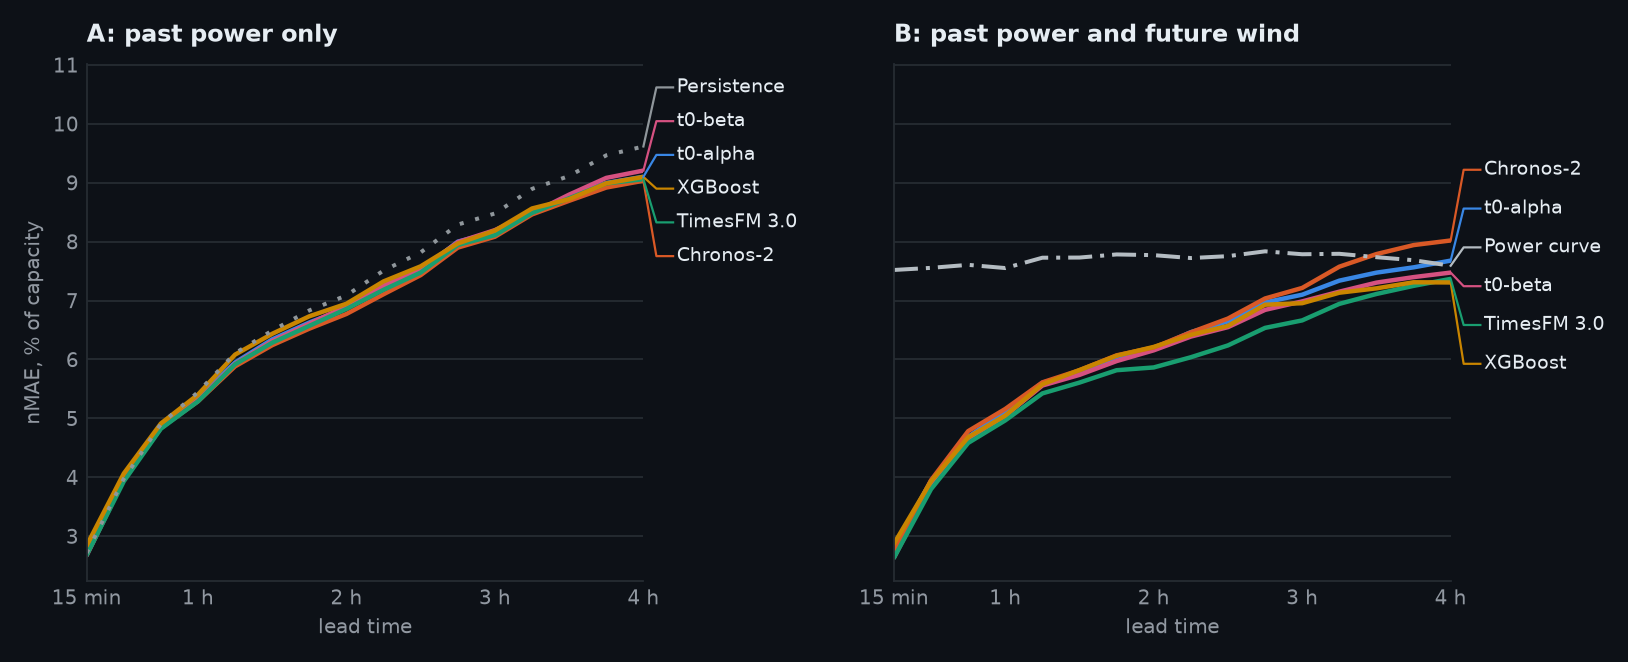
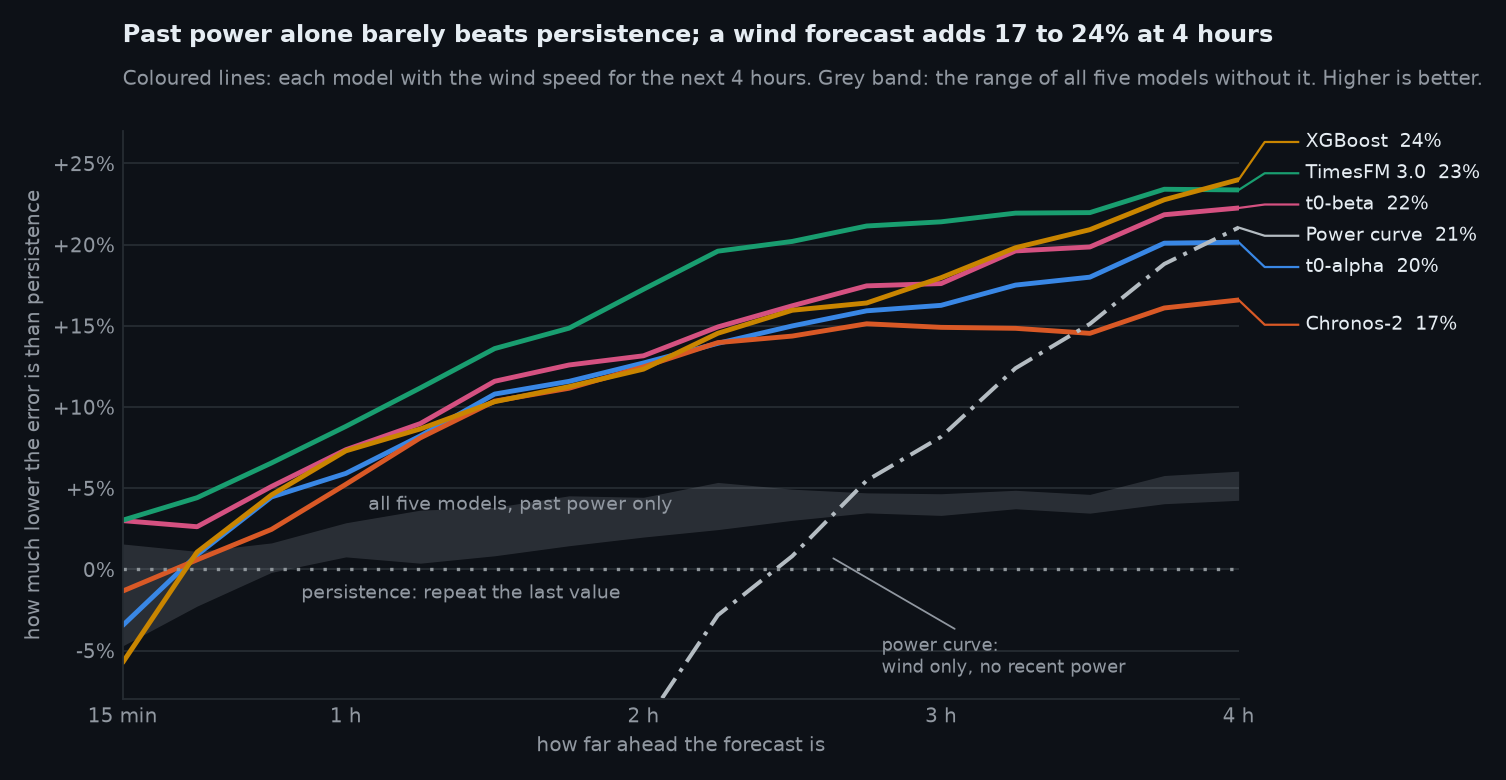
Redesign the lead time chart as improvement over persistence

diff --git a/windbench/figures.py b/windbench/figures.py
@@ -72,28 +72,45 @@ def save(fig, name, theme):
 
 
 def lead_time(m, th, theme):
-    """nMAE at every step, setup A next to setup B."""
-    fig, (a, b) = new_fig(th, 11, 4.2, ncols=2, sharey=True)
+    """How much each model beats persistence at every lead time, with and without a wind forecast."""
+    fig, (ax,) = new_fig(th, 9, 4.8)
     steps = np.arange(1, 17)
-    get = lambda model: m[(m.model == model) & (m.step > 0)].sort_values("step")["nMAE"].to_numpy()  # noqa: E731
-    for ax, suffix, title in [(a, "", "A: past power only"), (b, FUT_SUFFIX, "B: past power and future wind")]:
-        labels = []
-        for fid, lab, key in FAMILIES:
-            y = get(fid + suffix)
-            ax.plot(steps, y, color=th[key], linewidth=2, solid_capstyle="round")
-            labels.append((lab, y[-1], th[key]))
-        base, blab, bkey, dash = (("persistence", "Persistence", "pers", (0, (1, 3))) if not suffix
-                                  else ("power-curve", "Power curve", "curve", (0, (6, 2, 1, 2))))
-        y = get(base)
-        ax.plot(steps, y, color=th[bkey], linewidth=1.8, linestyle=dash)
-        labels.append((blab, y[-1], th[bkey]))
-        end_labels(ax, labels, th, 16)
-        ax.set_title(title, loc="left", fontsize=11, color=th["ink"], fontweight="bold", pad=10)
-        ax.set_xticks(STEP_TICKS, STEP_LABELS)
-        ax.set_xlim(1, 16)
-        ax.set_xlabel("lead time", color=th["muted"], fontsize=9)
-    a.set_ylabel("nMAE, % of capacity", color=th["muted"], fontsize=9)
-    fig.subplots_adjust(wspace=0.45)
+    skill = lambda model: m[(m.model == model) & (m.step > 0)].sort_values("step")["skill_nMAE"].to_numpy()  # noqa: E731
+    lo_y, hi_y = -8, 27
+    # setup A: the models are statistically indistinguishable, so show their range as one band
+    a = np.stack([skill(fid) for fid, _, _ in FAMILIES])
+    ax.fill_between(steps, a.min(0), a.max(0), color=th["muted"], alpha=0.22, linewidth=0)
+    ax.text(4.3, a.max(0)[3] + 0.8, "all five models, past power only", fontsize=8.5, color=th["muted"])
+    labels = []
+    for fid, lab, key in FAMILIES:
+        y = skill(fid + FUT_SUFFIX)
+        ax.plot(steps, y, color=th[key], linewidth=2.2, solid_capstyle="round")
+        labels.append((f"{lab}  {y[-1]:.0f}%", y[-1], th[key]))
+    pc = skill("power-curve")
+    ax.plot(steps, np.maximum(pc, lo_y - 5), color=th["curve"], linewidth=1.8, linestyle=(0, (6, 2, 1, 2)))
+    labels.append((f"Power curve  {pc[-1]:.0f}%", pc[-1], th["curve"]))
+    ax.axhline(0, color=th["pers"], linewidth=1.5, linestyle=(0, (1, 3)))
+    ax.text(3.4, -0.9, "persistence: repeat the last value", fontsize=8.5, color=th["muted"], va="top")
+    ax.set_ylim(lo_y, hi_y)
+    ax.set_yticks(np.arange(-5, hi_y, 5))
+    end_labels(ax, labels, th, 16, gap_frac=0.055)
+    ax.annotate("power curve:\nwind only, no recent power", xy=(10.5, pc[9]), xytext=(11.2, -5.4), fontsize=8,
+                color=th["muted"], va="center",
+                arrowprops=dict(arrowstyle="-", color=th["muted"], linewidth=0.8))
+    ax.set_xticks(STEP_TICKS, STEP_LABELS)
+    ax.set_xlim(1, 16)
+    ax.yaxis.set_major_formatter(matplotlib.ticker.FuncFormatter(lambda v, _: f"{v:+.0f}%" if v else "0%"))
+    ax.set_xlabel("how far ahead the forecast is", color=th["muted"], fontsize=9)
+    ax.set_ylabel("how much lower the error is than persistence", color=th["muted"], fontsize=9)
+    finals = [skill(fid + FUT_SUFFIX)[-1] for fid, _, _ in FAMILIES]
+    fig.text(ax.get_position().x0, 0.99,
+             f"Past power alone barely beats persistence; a wind forecast adds "
+             f"{min(finals):.0f} to {max(finals):.0f}% at 4 hours",
+             fontsize=11, color=th["ink"], fontweight="bold", va="top")
+    fig.text(ax.get_position().x0, 0.93, "Coloured lines: each model with the wind speed for the next 4 hours. "
+             "Grey band: the range of all five models without it. Higher is better.",
+             fontsize=9, color=th["muted"], va="top")
+    fig.subplots_adjust(top=0.85)
     save(fig, "lead_time", theme)
 
 

diff --git a/README.md b/README.md
@@ -10,7 +10,7 @@ Everything runs on a laptop. The full benchmark (tuning, 18 model variants, 2,18
 
 <picture>
   <source media="(prefers-color-scheme: dark)" srcset="docs/figures/lead_time_dark.png">
-  <img alt="Forecast error at every lead time from 15 minutes to 4 hours, for past power only and for past power plus future wind" src="docs/figures/lead_time_light.png">
+  <img alt="How much lower each model's error is than persistence, from 15 minutes to 4 hours ahead: all models stay within a few percent of persistence on past power alone, and reach 17 to 24 percent better at 4 hours with a wind forecast" src="docs/figures/lead_time_light.png">
 </picture>
 
 ## Key findings
